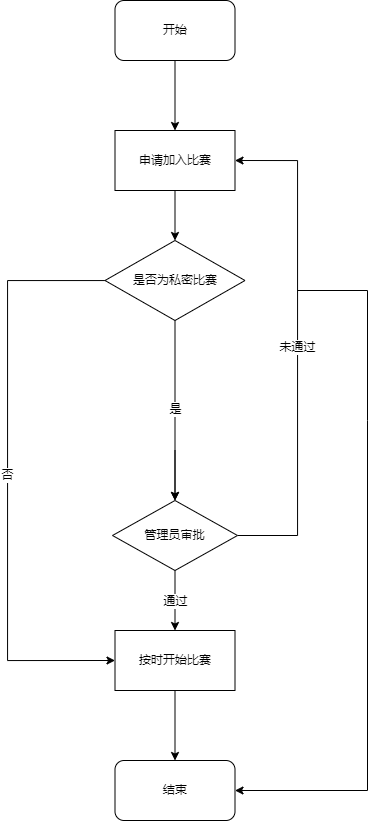
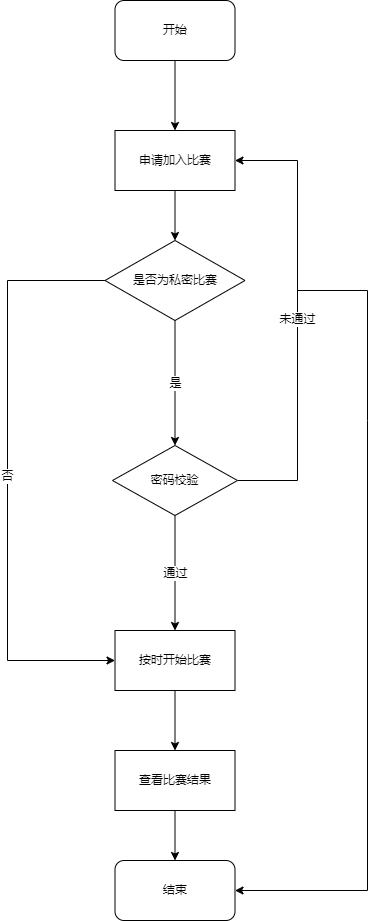
4.3-4.5

diff --git a/Requirement_official.md b/Requirement_official.md
@@ -386,28 +386,28 @@ note left of tk: 比赛创建及参与功能
 本模块为比赛模块，用来创建与参加比赛，然后转入答题功能，主要包含以下几个业务：
 
 **1） 创建比赛功能：**
-由管理员选择比赛开始时间、答题时间、题目、是否为私密比赛等属性以创建比赛。
+由管理员选择比赛开始时间、答题时间、题目、是否为私密比赛属性以创建比赛。
 
 **2） 参赛审批功能：**
 
-由管理员根据申请备注来审批是否允许该用户参加私密比赛
+对于私密比赛由系统校验密码是否正确以核准用户能否参加私密比赛
 
 **3） 参赛申请功能：**
 
-用户报名参加比赛，若为私密比赛则需要提供申请备注提交管理员审批，可在同一入口查看申请状态
+用户报名参加比赛，若为私密比赛则需要提供参赛密码提交系统自动审批
 
 **4） 查看排名与答题情况功能：**
 
-比赛结束后，管理员可以查看比赛的排名和用户答题情况，错误分布等
+比赛结束后，管理员可以查看比赛的排名和用户答题情况，错误分布等，用户自己可以查看比赛的排名与自己的答题情况
 
 ##### 4.4.3.2 使用角色描述
 
-| 使用者 | 使用功能           |
-| ------ | ------------------ |
-| 用户   | 参赛申请           |
-| 管理员 | 创建比赛           |
-| 管理员 | 参赛审批           |
-| 管理员 | 查看排名与答题情况 |
+| 使用者       | 使用功能           |
+| ------------ | ------------------ |
+| 用户         | 参赛申请           |
+| 管理员       | 创建比赛           |
+| 管理员       | 参赛审批           |
+| 管理员，用户 | 查看排名与答题情况 |
 
 
 ##### 4.4.3.3 业务操作流程
@@ -420,15 +420,13 @@ note left of tk: 比赛创建及参与功能
 | -------------------- | ------------------ | ---------------------------- |
 | 设定比赛时间模块     | 开始时间、答题时间 | 图形化界面选择后转为整性数据 |
 | 设定比赛私密属性模块 | 是否为私密比赛     | 图形化界面选择后转为布尔型   |
-| 比赛审批模块         | 是否同意用户参赛   | 图形化界面选择后转为布尔型   |
-| 比赛申请模块         | 申请备注（可选）   | 字符串                       |
+| 比赛申请模块         | 参赛密码（可选）   | 字符串                       |
 
 ##### 4.4.3.5 输出
 
 | 功能子模块 | 输出内容           |
 | ---------- | ------------------ |
 | 创建比赛模块  | 创建成功，创建失败 |
-| 比赛审批模块            | 操作成功，操作失败 |
 | 比赛申请模块            | 申请成功，申请失败              |
 
 ### 4.5 答题功能
@@ -688,5 +686,4 @@ pie
 4. 《中华人民共和国侵权责任法》第二条。
 
 5. 《中华人民共和国未成年人保护法》第三十九条。
-
 
